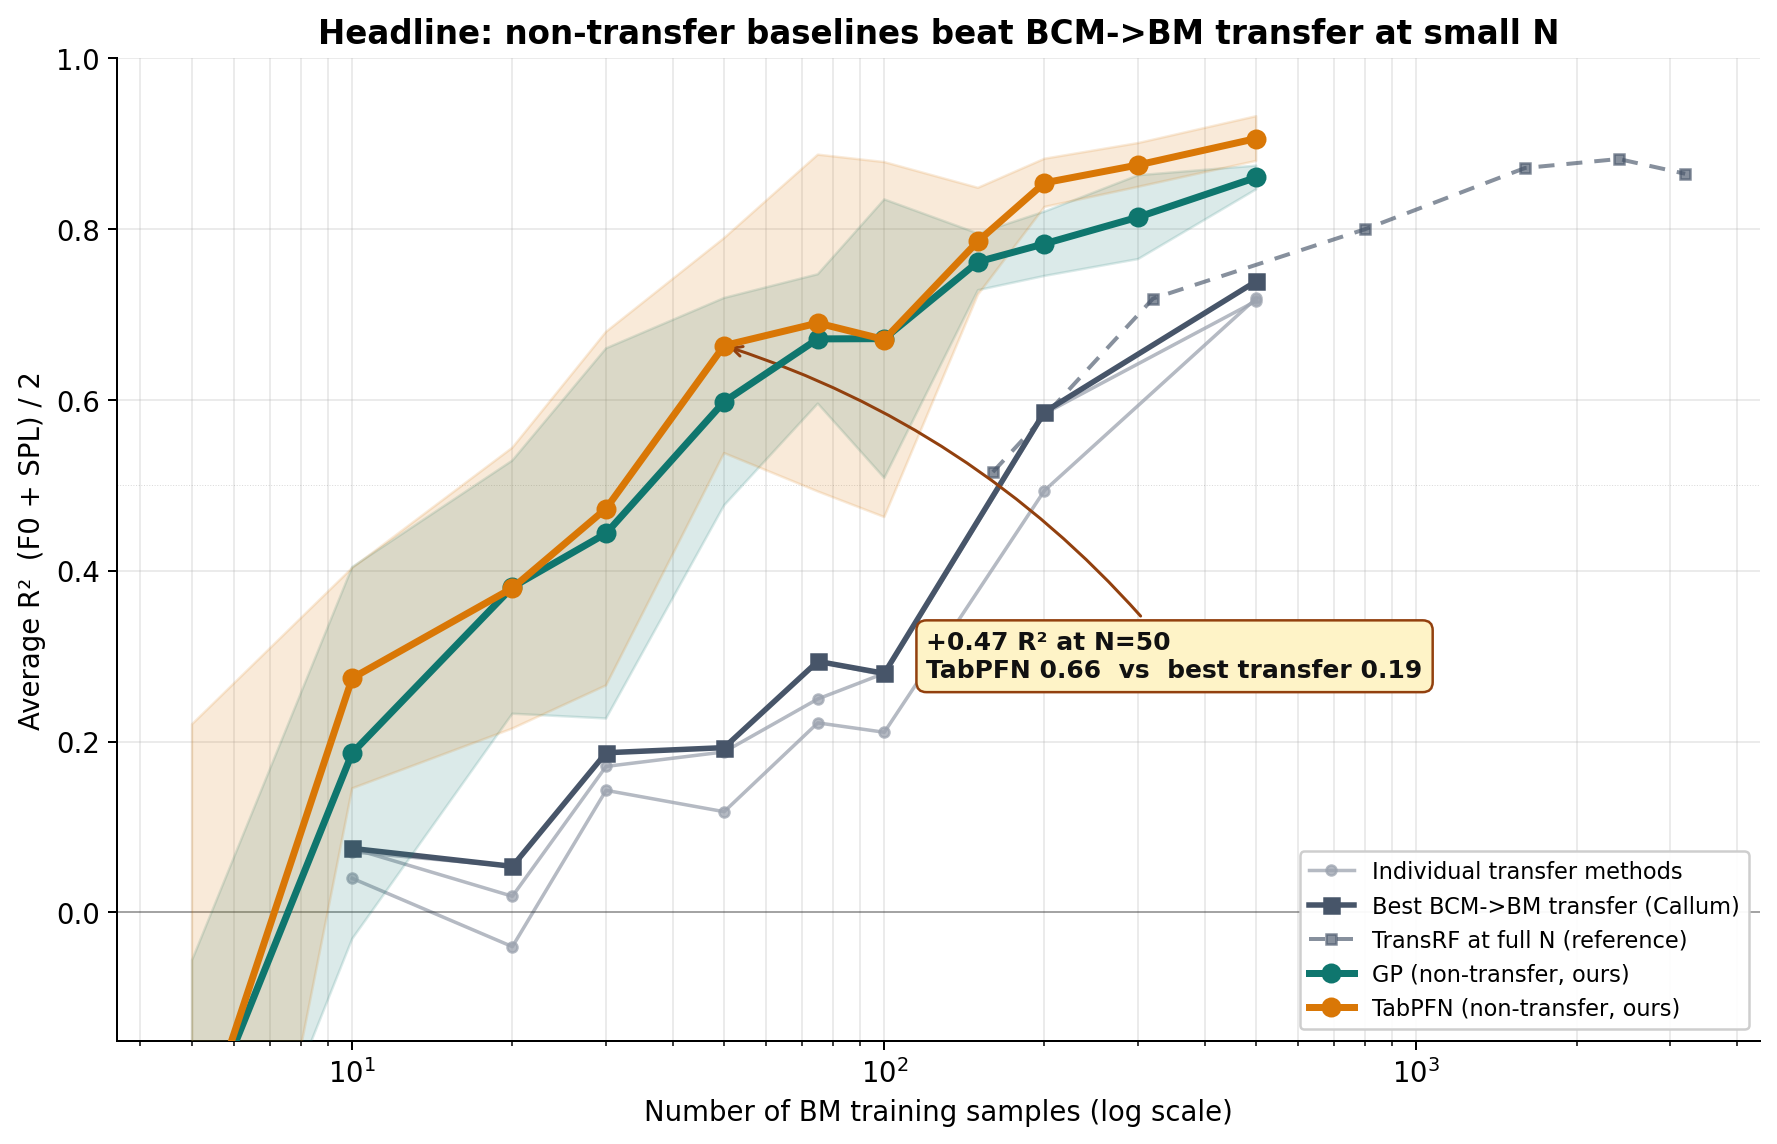
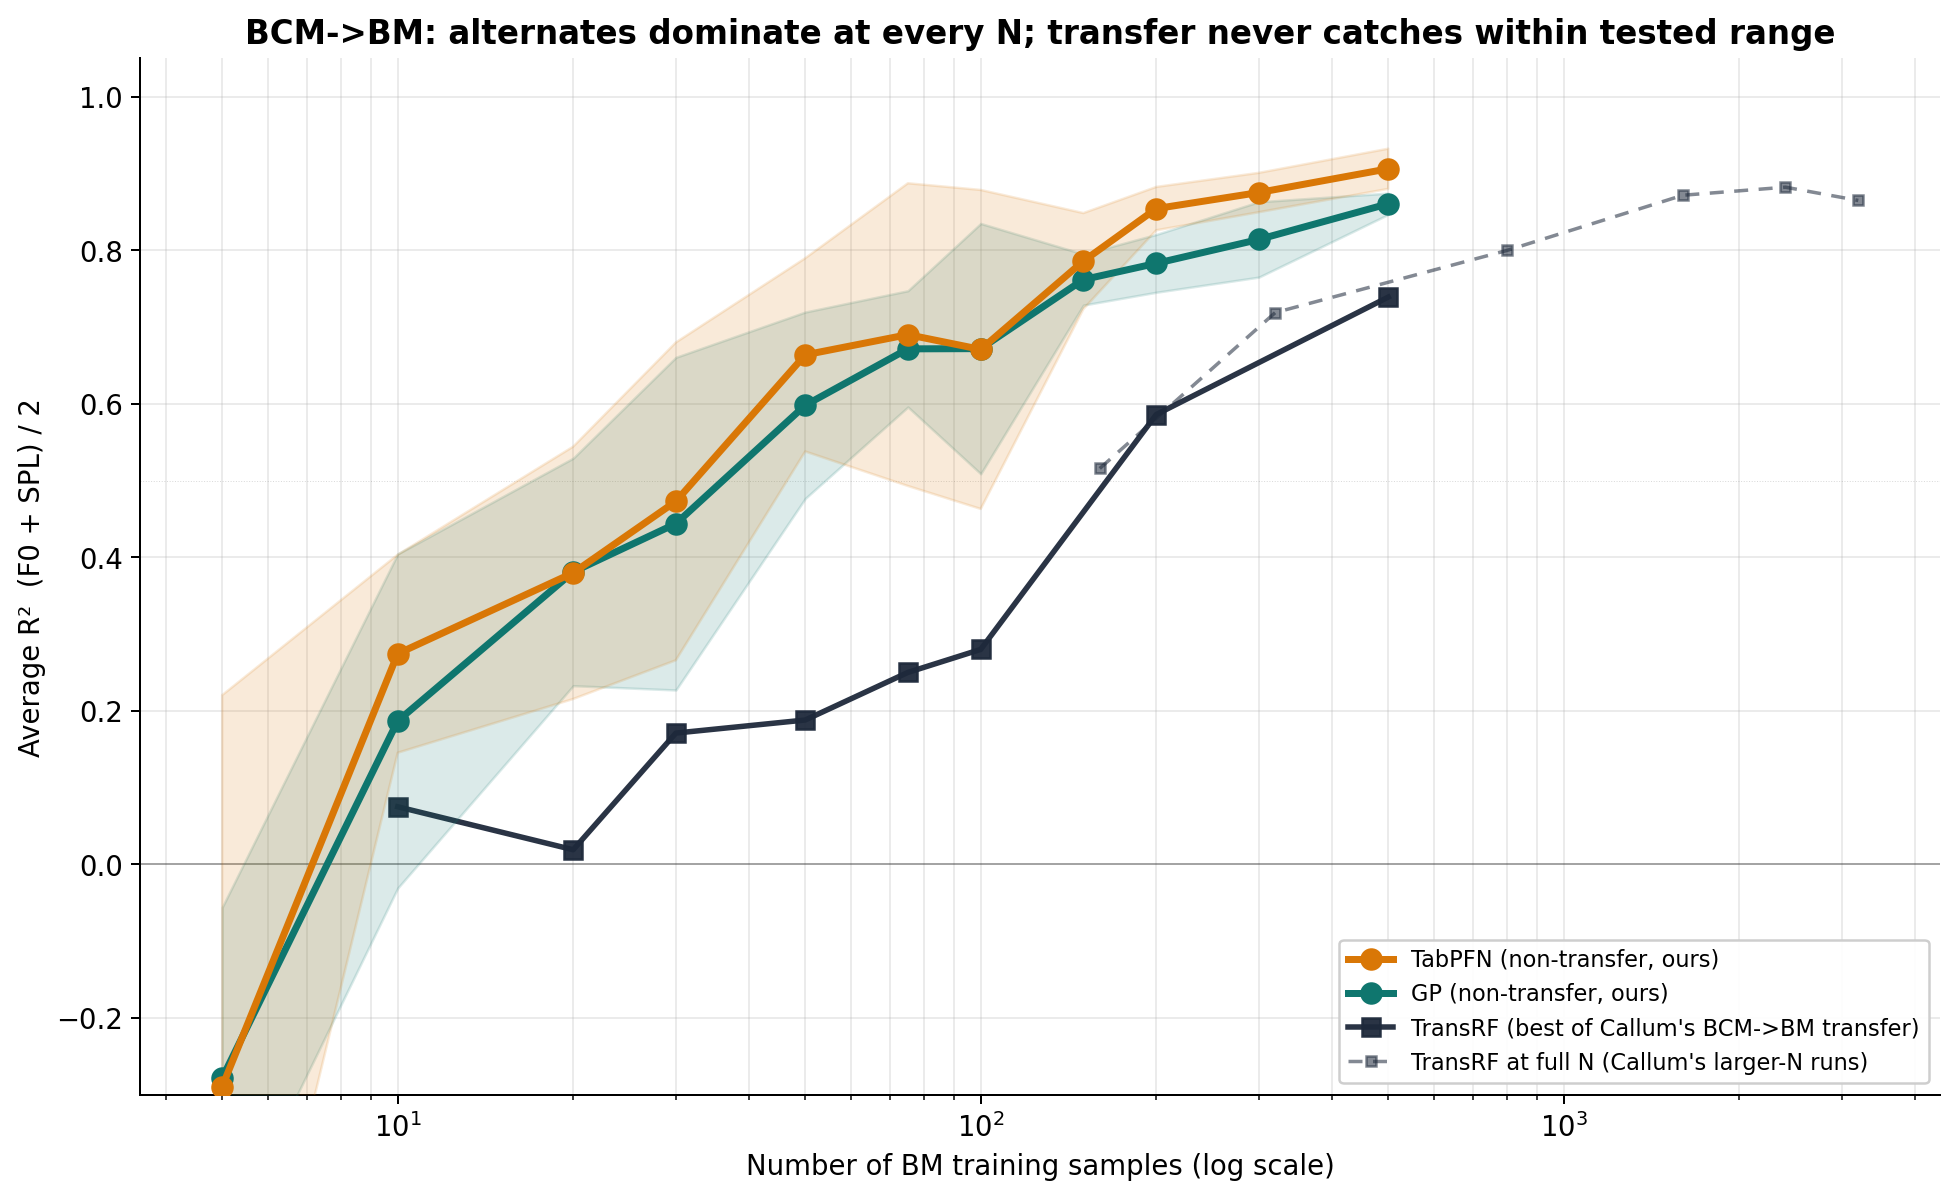
figs(BM): align headline with TBCM/Female showcase headlines
Same simplification applied to TBCM_Showcase + Female_Showcase earlier
(commit 433bf53), brought back to the BM headline for consistency:

  - Drop the gray "Individual transfer methods" spaghetti
    (Target Only, Feature Aug). Only show TransRF as the best transfer
    line; the dropped variants are still visible in sim_budget,
    bootstrap, and table figures.
  - Drop the in-plot annotation text box (+0.47 R^2 at N=50 callout).
    Numbers live in the head-to-head table fig.
  - Match color palette: TransRF in #1e293b slate (was a different
    slate); TabPFN amber, GP teal (unchanged).
  - Match figure size to TBCM/Female: 11 x 6.8 (was 10 x 6.5).
  - Match y-axis range: -0.3 to 1.05 (was -0.15 to 1.0).
  - Match legend order: TabPFN, GP, TransRF (best transfer), TransRF
    at full N — alternates first, transfer second.
  - Update title to the same "<source>->target>: ..." format:
    "BCM->BM: alternates dominate at every N; transfer never catches
    within tested range"

The three headline figures (BM / TBCM / Female) now read as a
consistent set.

diff --git a/Beam_Membrane/BM_Showcase.py b/Beam_Membrane/BM_Showcase.py
@@ -113,45 +113,31 @@ def best_transfer_at(n_target, small=True):
 # Figure 1: Headline — Average R^2 vs N
 # ============================================================================
 def fig_headline():
+    """Aligned with TBCM_Showcase / Female_Showcase: only TabPFN, GP, best
+    transfer (TransRF), and the dashed full-N TransRF reference. No
+    annotation text boxes — figures speak for themselves; numbers live in
+    the head-to-head table figure."""
     alt = load_alternates()
     xfer_full = load_full_n_transfer()
 
-    fig, ax = plt.subplots(figsize=(10, 6.5))
+    fig, ax = plt.subplots(figsize=(11, 6.8))
 
-    # Transfer "envelope" at small N: draw each method faintly, then the
-    # per-N best in a heavier slate.
-    method_order = ['Target Only', 'Feature Aug', 'TransRF']
+    # Best of Callum's transfer at small N (TransRF only)
     small_ns = sorted(SMALL_N_TRANSFER.keys())
-    small_ns_in_alt_range = [n for n in small_ns if n <= 100]
+    transrf_small = [SMALL_N_TRANSFER[n]['TransRF'] for n in small_ns]
+    ax.plot(small_ns, transrf_small, color='#1e293b',
+            marker='s', ls='-', lw=2.2, ms=7, alpha=0.95,
+            label="TransRF (best of Callum's BCM->BM transfer)", zorder=3)
 
-    # Faint per-method lines (gray spaghetti) — individual transfer methods
-    for i, m in enumerate(method_order):
-        ys = [SMALL_N_TRANSFER[n].get(m, np.nan) for n in small_ns]
-        ax.plot(small_ns, ys, color=COLORS['transfer'], lw=1.4,
-                alpha=0.75, marker='o', markersize=4, zorder=2,
-                label='Individual transfer methods' if i == 0 else None)
-
-    # Best-transfer-per-N line
-    best_xs, best_ys, best_labels = [], [], []
-    for n in small_ns:
-        m, v = best_transfer_at(n)
-        if m is not None:
-            best_xs.append(n)
-            best_ys.append(v)
-            best_labels.append(m)
-    ax.plot(best_xs, best_ys, color=COLORS['best_xfer'],
-            lw=2.2, marker='s', markersize=6,
-            label='Best BCM->BM transfer (Callum)', zorder=3)
-
-    # Full-N transfer reference (TransRF only, dashed continuation)
+    # Full-N TransRF dashed continuation
     xfer_tr = sorted(xfer_full['TransRF'])
     ns_tr = [n for n, _ in xfer_tr]
     vs_tr = [v for _, v in xfer_tr]
-    ax.plot(ns_tr, vs_tr, color=COLORS['best_xfer'], lw=1.6,
-            ls=(0, (4, 3)), alpha=0.65, marker='s', markersize=4,
-            label='TransRF at full N (reference)', zorder=2)
+    ax.plot(ns_tr, vs_tr, color='#1e293b',
+            marker='s', ls=(0, (4, 3)), lw=1.4, ms=4, alpha=0.55,
+            label="TransRF at full N (Callum's larger-N runs)", zorder=2)
 
-    # GP and TabPFN: bold lines + 1-sigma bands
+    # GP + TabPFN bold with std bands
     for method, color in [('GP', COLORS['GP']), ('TabPFN', COLORS['TabPFN'])]:
         if method not in alt:
             continue
@@ -160,36 +146,32 @@ def fig_headline():
         stds = np.array([alt[method][n].std() for n in ns])
         ax.fill_between(ns, means - stds, means + stds,
                         color=color, alpha=0.15, zorder=3)
-        ax.plot(ns, means, color=color, lw=2.8,
-                marker='o', markersize=7,
+        ax.plot(ns, means, color=color, marker='o', ls='-',
+                lw=2.8, ms=8,
                 label=f'{method} (non-transfer, ours)', zorder=5)
-
-    # Annotate headline gap at N=50
-    gp_at_50 = alt['GP'][50].mean()
-    tab_at_50 = alt['TabPFN'][50].mean()
-    best_xfer_at_50 = SMALL_N_TRANSFER[50]
-    best_xfer_val_50 = max(best_xfer_at_50.values())
-    gap = tab_at_50 - best_xfer_val_50
-
-    ax.annotate(
-        f'+{gap:.2f} R² at N=50\nTabPFN {tab_at_50:.2f}  vs  best transfer {best_xfer_val_50:.2f}',
-        xy=(50, tab_at_50), xytext=(120, 0.30),
-        fontsize=10, fontweight='bold', color='#111',
-        ha='left', va='center',
-        bbox=dict(boxstyle='round,pad=0.4', fc='#fef3c7', ec='#92400e', lw=1),
-        arrowprops=dict(arrowstyle='->', color='#92400e', lw=1.2,
-                        connectionstyle='arc3,rad=0.15'))
 
     ax.set_xscale('log')
     ax.set_xlabel('Number of BM training samples (log scale)')
     ax.set_ylabel('Average R²  (F0 + SPL) / 2')
-    ax.set_title('Headline: non-transfer baselines beat BCM->BM transfer at small N',
+    ax.set_title('BCM->BM: alternates dominate at every N; transfer never catches within tested range',
                  fontweight='bold')
     ax.axhline(0, color='#000', lw=0.6, alpha=0.4)
     ax.axhline(0.5, color='#000', lw=0.4, alpha=0.15, ls=':')
-    ax.set_ylim(-0.15, 1.0)
+    ax.set_ylim(-0.3, 1.05)
     ax.grid(True, which='both', alpha=0.25)
-    ax.legend(loc='lower right', framealpha=0.95)
+
+    # Reorder legend to match TBCM/Female: alternates first, then transfer
+    handles, labels = ax.get_legend_handles_labels()
+    order_keys = [
+        'TabPFN (non-transfer, ours)',
+        'GP (non-transfer, ours)',
+        "TransRF (best of Callum's BCM->BM transfer)",
+        "TransRF at full N (Callum's larger-N runs)",
+    ]
+    label_to_handle = dict(zip(labels, handles))
+    ordered = [(label_to_handle[k], k) for k in order_keys if k in label_to_handle]
+    ax.legend([h for h, _ in ordered], [l for _, l in ordered],
+              loc='lower right', framealpha=0.95, fontsize=9)
 
     fig.tight_layout()
     path = os.path.join(figs_dir, 'bm_showcase_headline.png')
